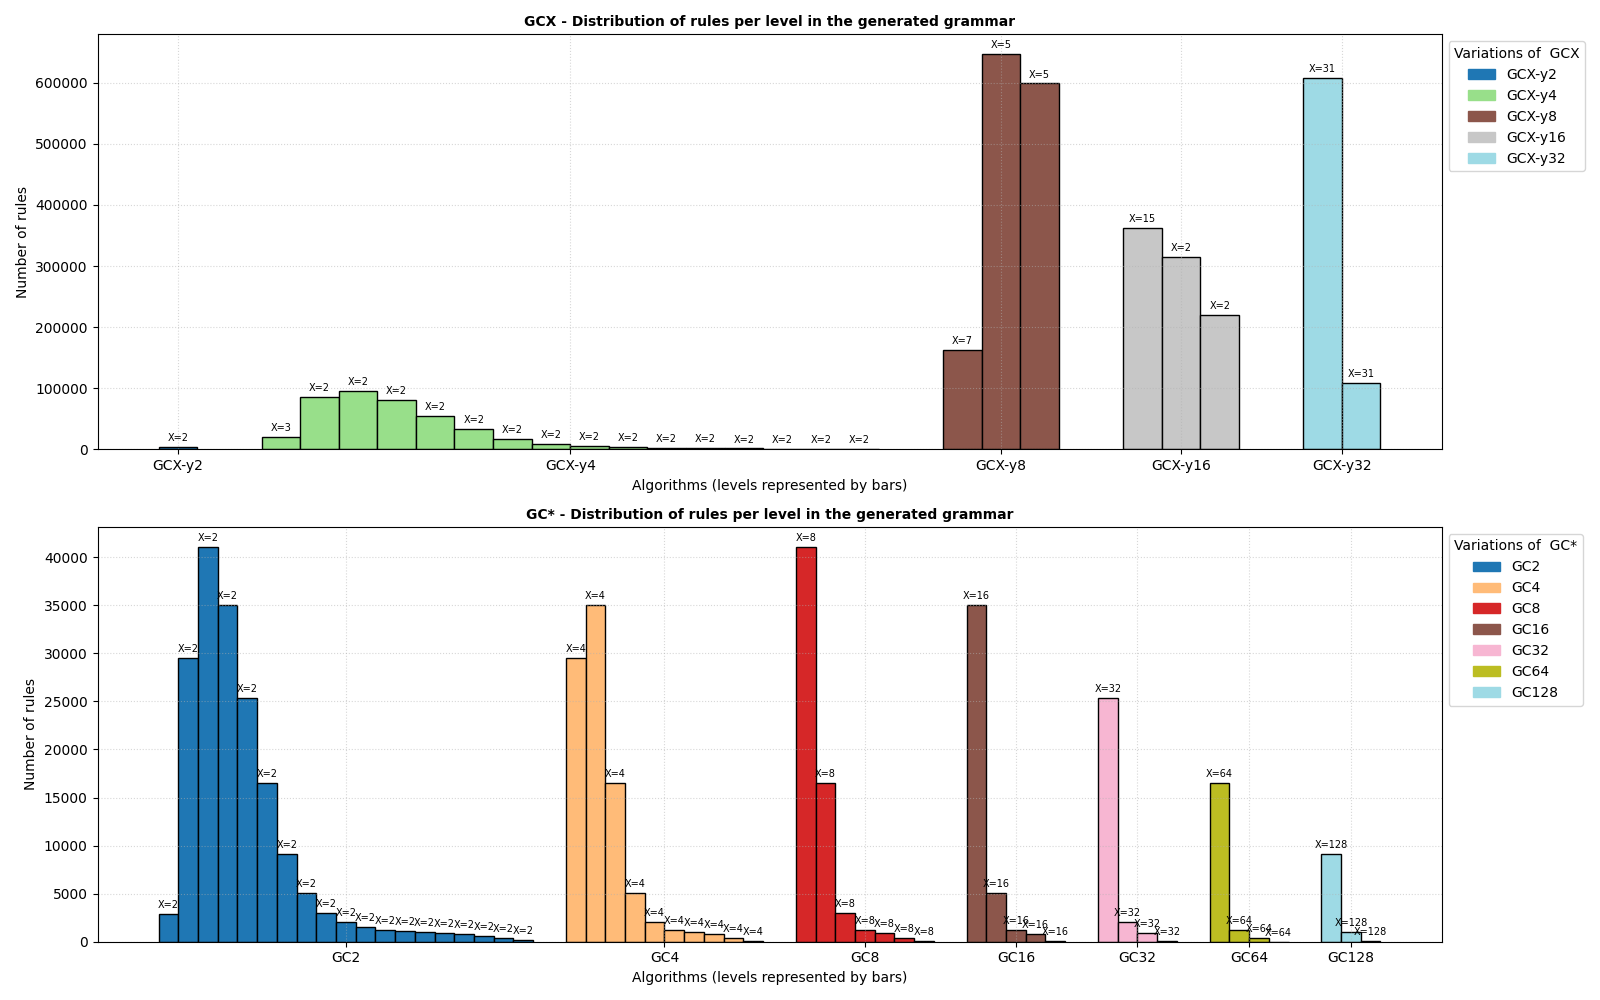
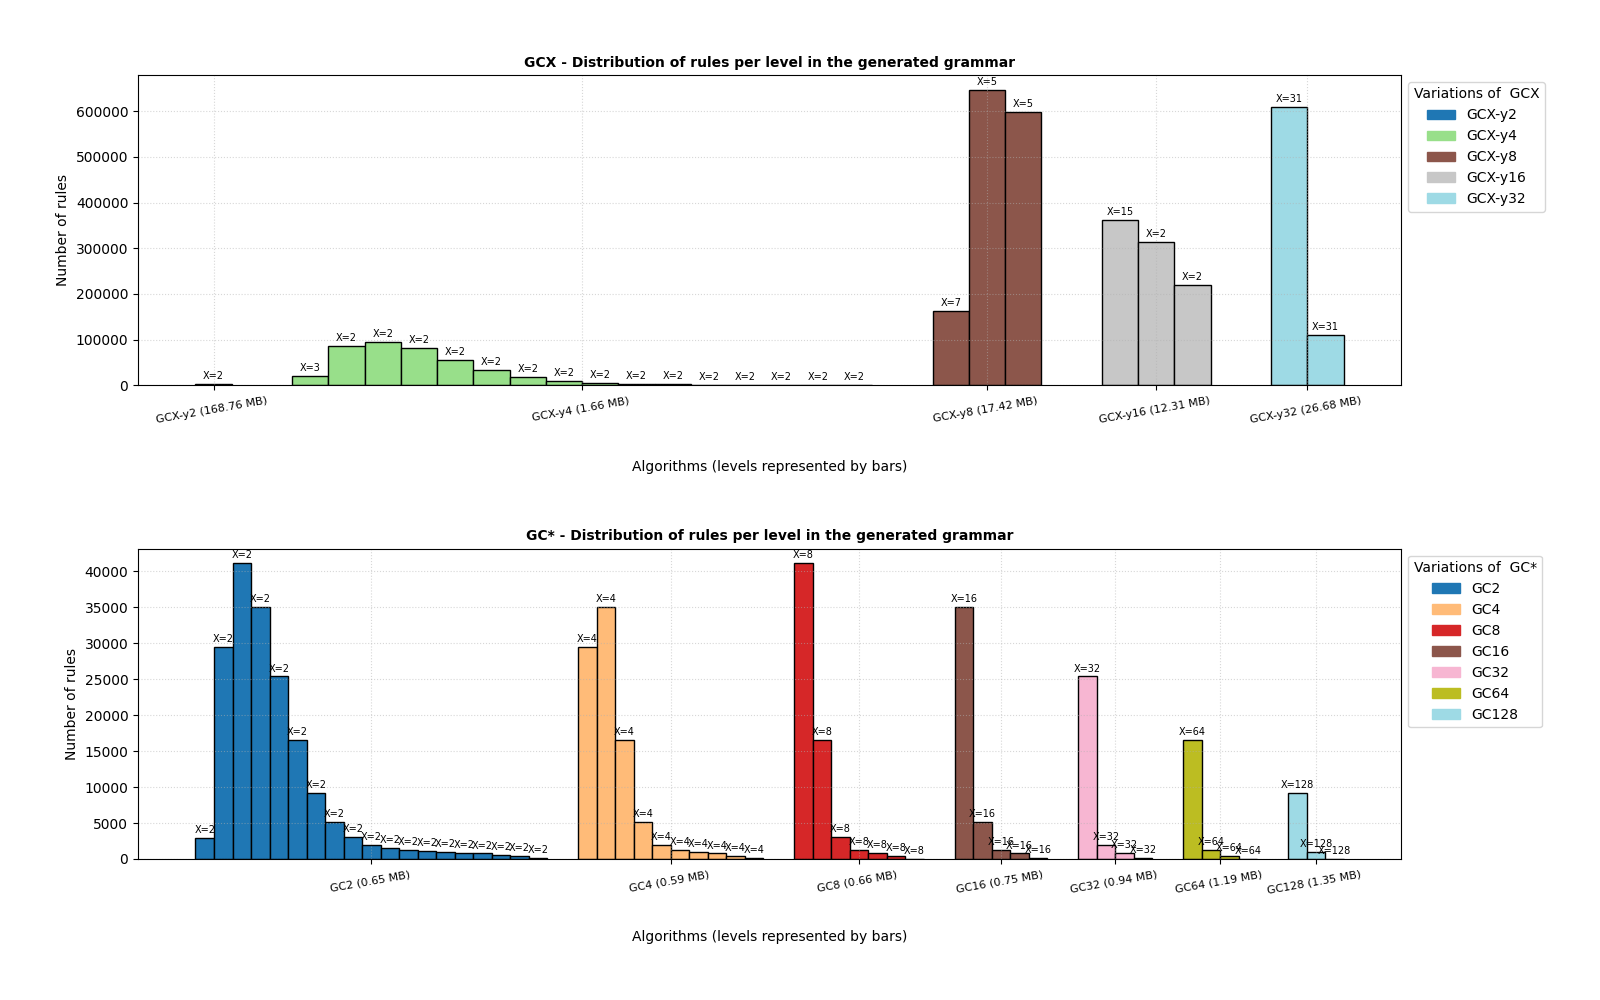
adiciona tamanho do arquivo compactado

diff --git a/scripts/graphs/plotting.py b/scripts/graphs/plotting.py
@@ -149,7 +149,7 @@ def plot_grammar(df, ax, algorithms, color_map, bar_width=0.9, bar_spacing=1.5):
             colors.append(color_map[alg])
         
         xticks.append(current_x + (num_levels -1) * bar_width / 2)
-        xtick_labels.append(alg)
+        xtick_labels.append(f"{alg} ({row['compressed_size']} MB) ")
         current_x += num_levels * bar_width + bar_spacing # posição da primeira barra do próximo algoritmo
     
     bars = ax.bar(positions, heights, width= bar_width, color=colors, edgecolor= 'black', linewidth=1)
@@ -158,9 +158,10 @@ def plot_grammar(df, ax, algorithms, color_map, bar_width=0.9, bar_spacing=1.5):
     for bar, label in zip(bars, labels):
         height = bar.get_height()
         ax.text(bar.get_x() + bar.get_width() / 2, height + max(heights) * 0.01, label, ha='center', va='bottom', fontsize=7)
+    
 
     ax.set_xticks(xticks)
-    ax.set_xticklabels(xtick_labels)
+    ax.set_xticklabels(xtick_labels, fontsize=8, rotation=10)
 
 def generate_grammar_chart(results, information, output_dir):
     fig, axs = plt.subplots(2, 1, figsize=(16, 10), gridspec_kw={'height_ratios': [1, 1]})
@@ -182,15 +183,16 @@ def generate_grammar_chart(results, information, output_dir):
 
         ax.set_title(f"{grammar_groups_names[i]} - {information['title']}", fontsize=10, fontweight='bold')
         ax.set_ylabel(information['y_label'])
-        ax.set_xlabel(information['x_label'])
+        ax.set_xlabel(information['x_label'], labelpad=25)
         ax.ticklabel_format(style='plain', axis='y')
         ax.grid(linestyle=':', alpha=0.5)
 
         handles = [plt.Rectangle((0, 0), 1, 1, color=color_map[alg]) for alg in algorithms]
         ax.legend(handles, algorithms, title=f"{information['legend']} {grammar_groups_names[i]}", loc='upper left', bbox_to_anchor=(1, 1))
 
-    plt.tight_layout()
-    
+    plt.tight_layout(pad=4.0)
+
     file = f"{output_dir}/{information['output_file']}-{results.index[0]}.png"
+    #plt.show()
     plt.savefig(file)
     plt.close()
